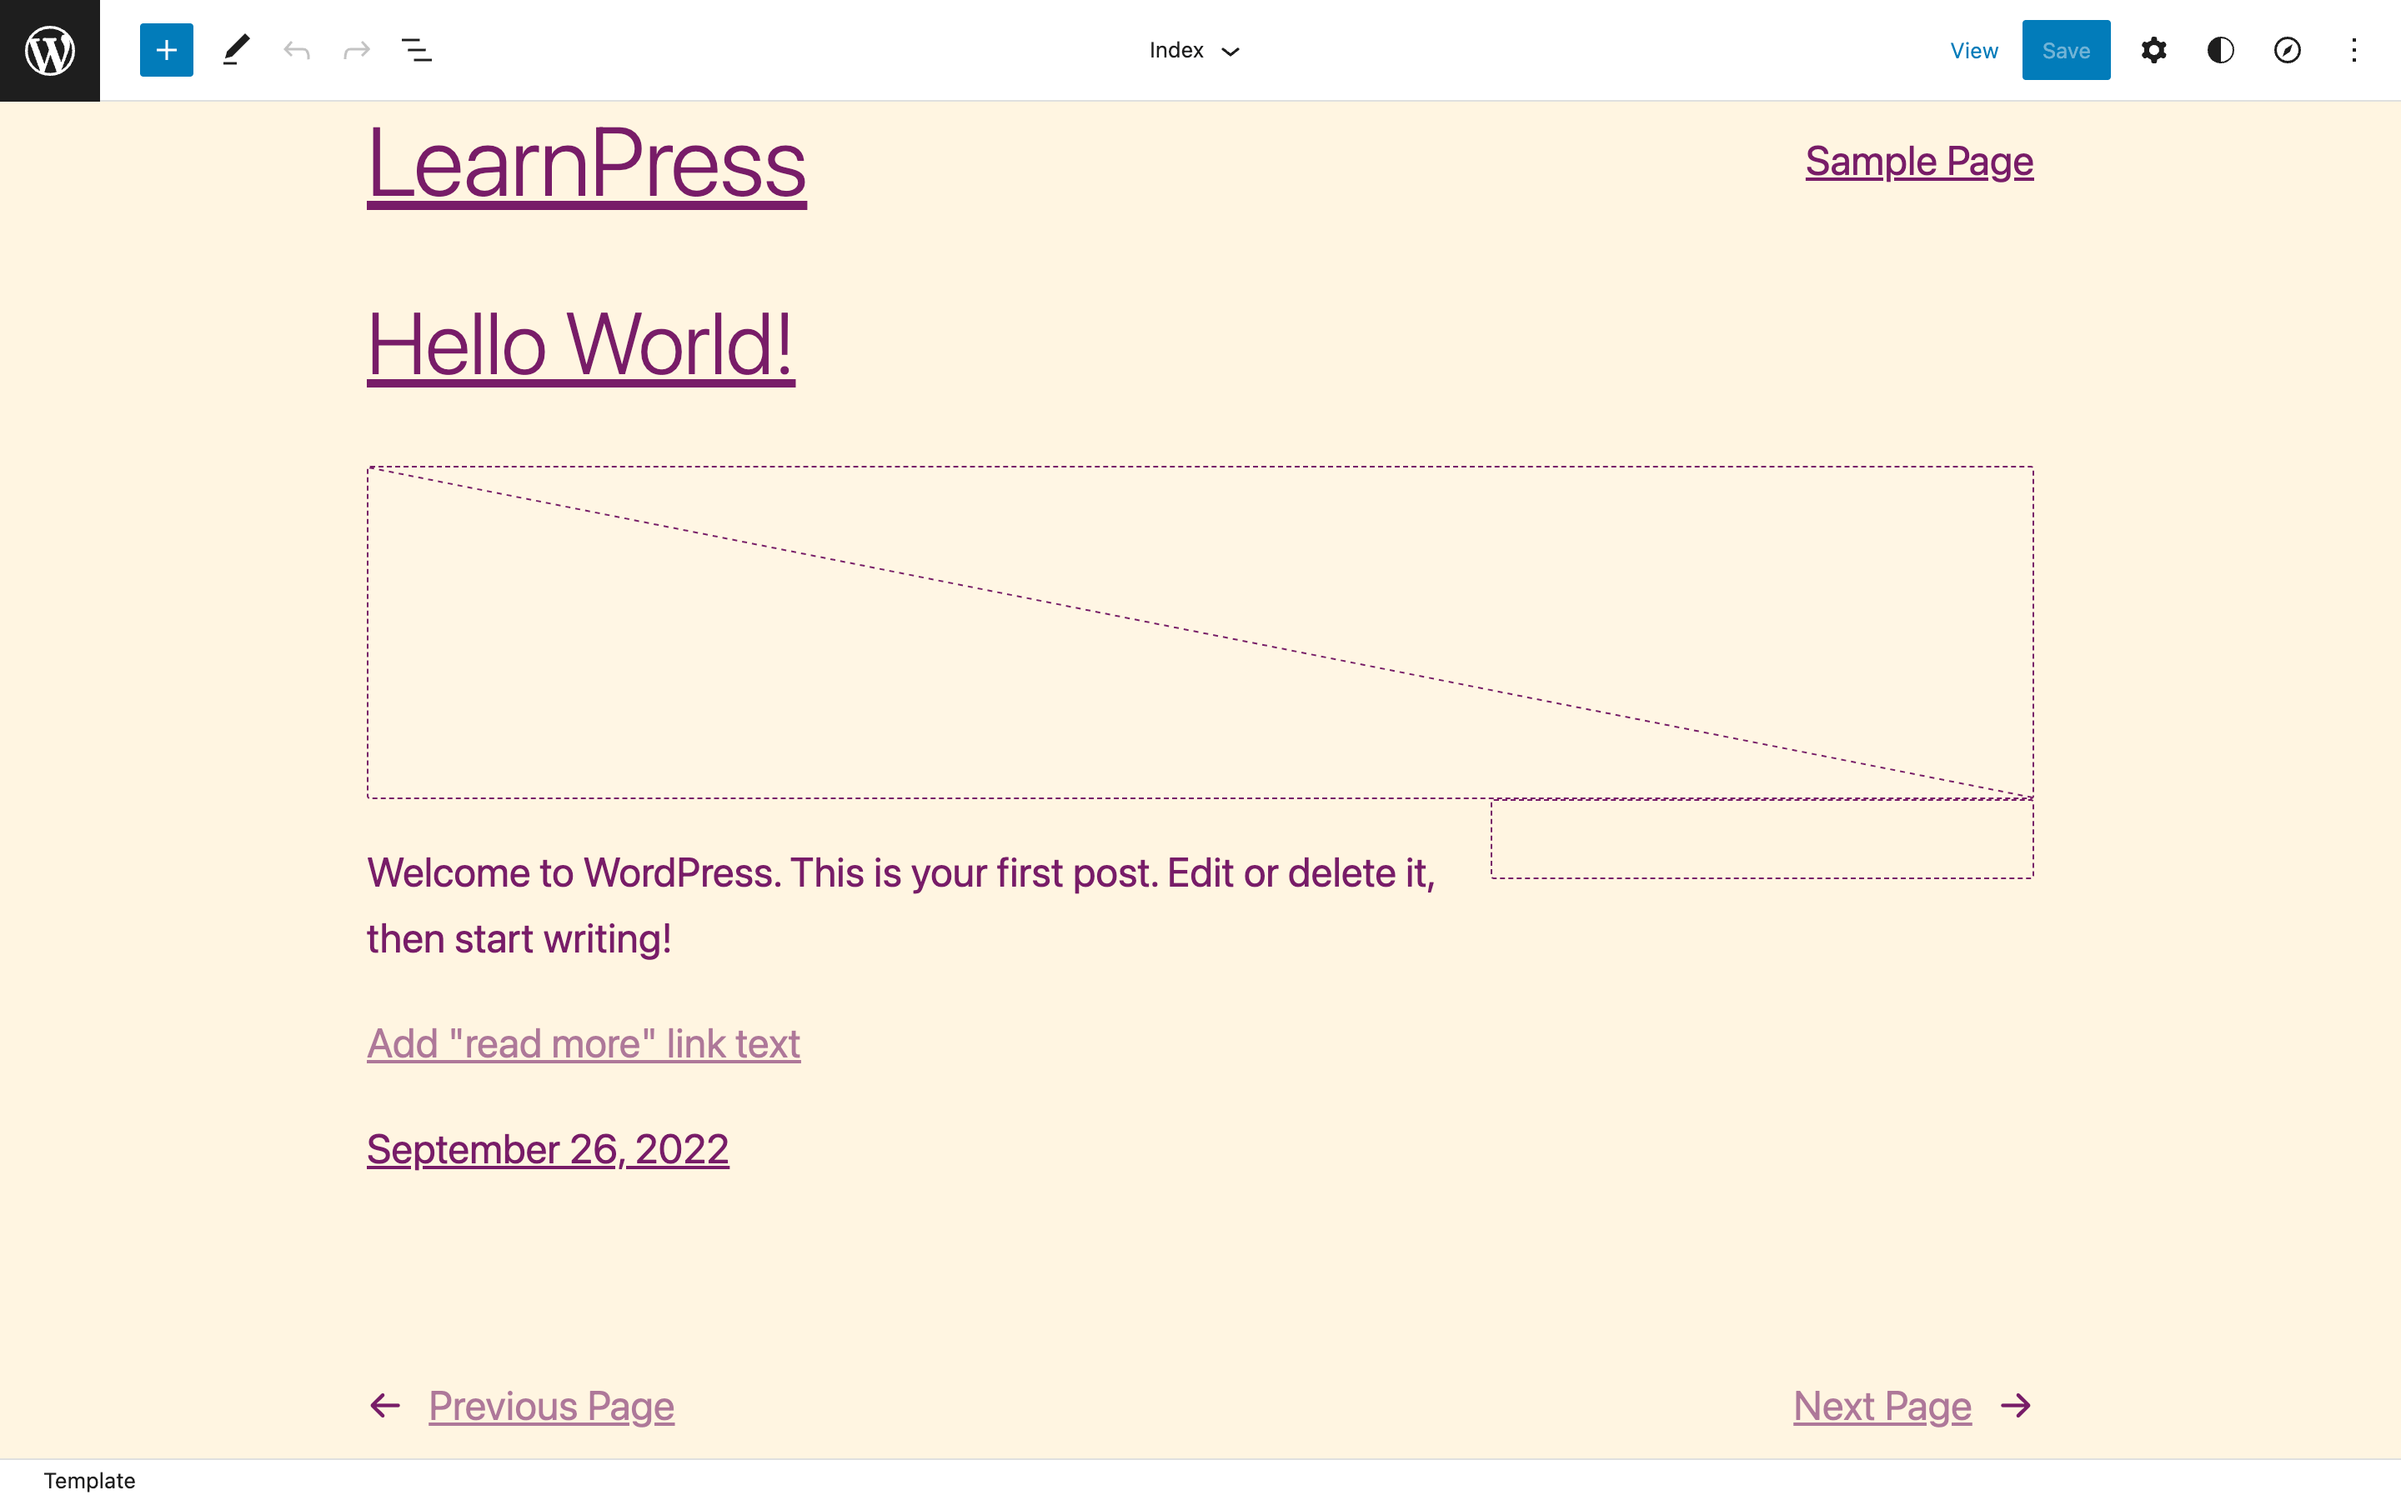
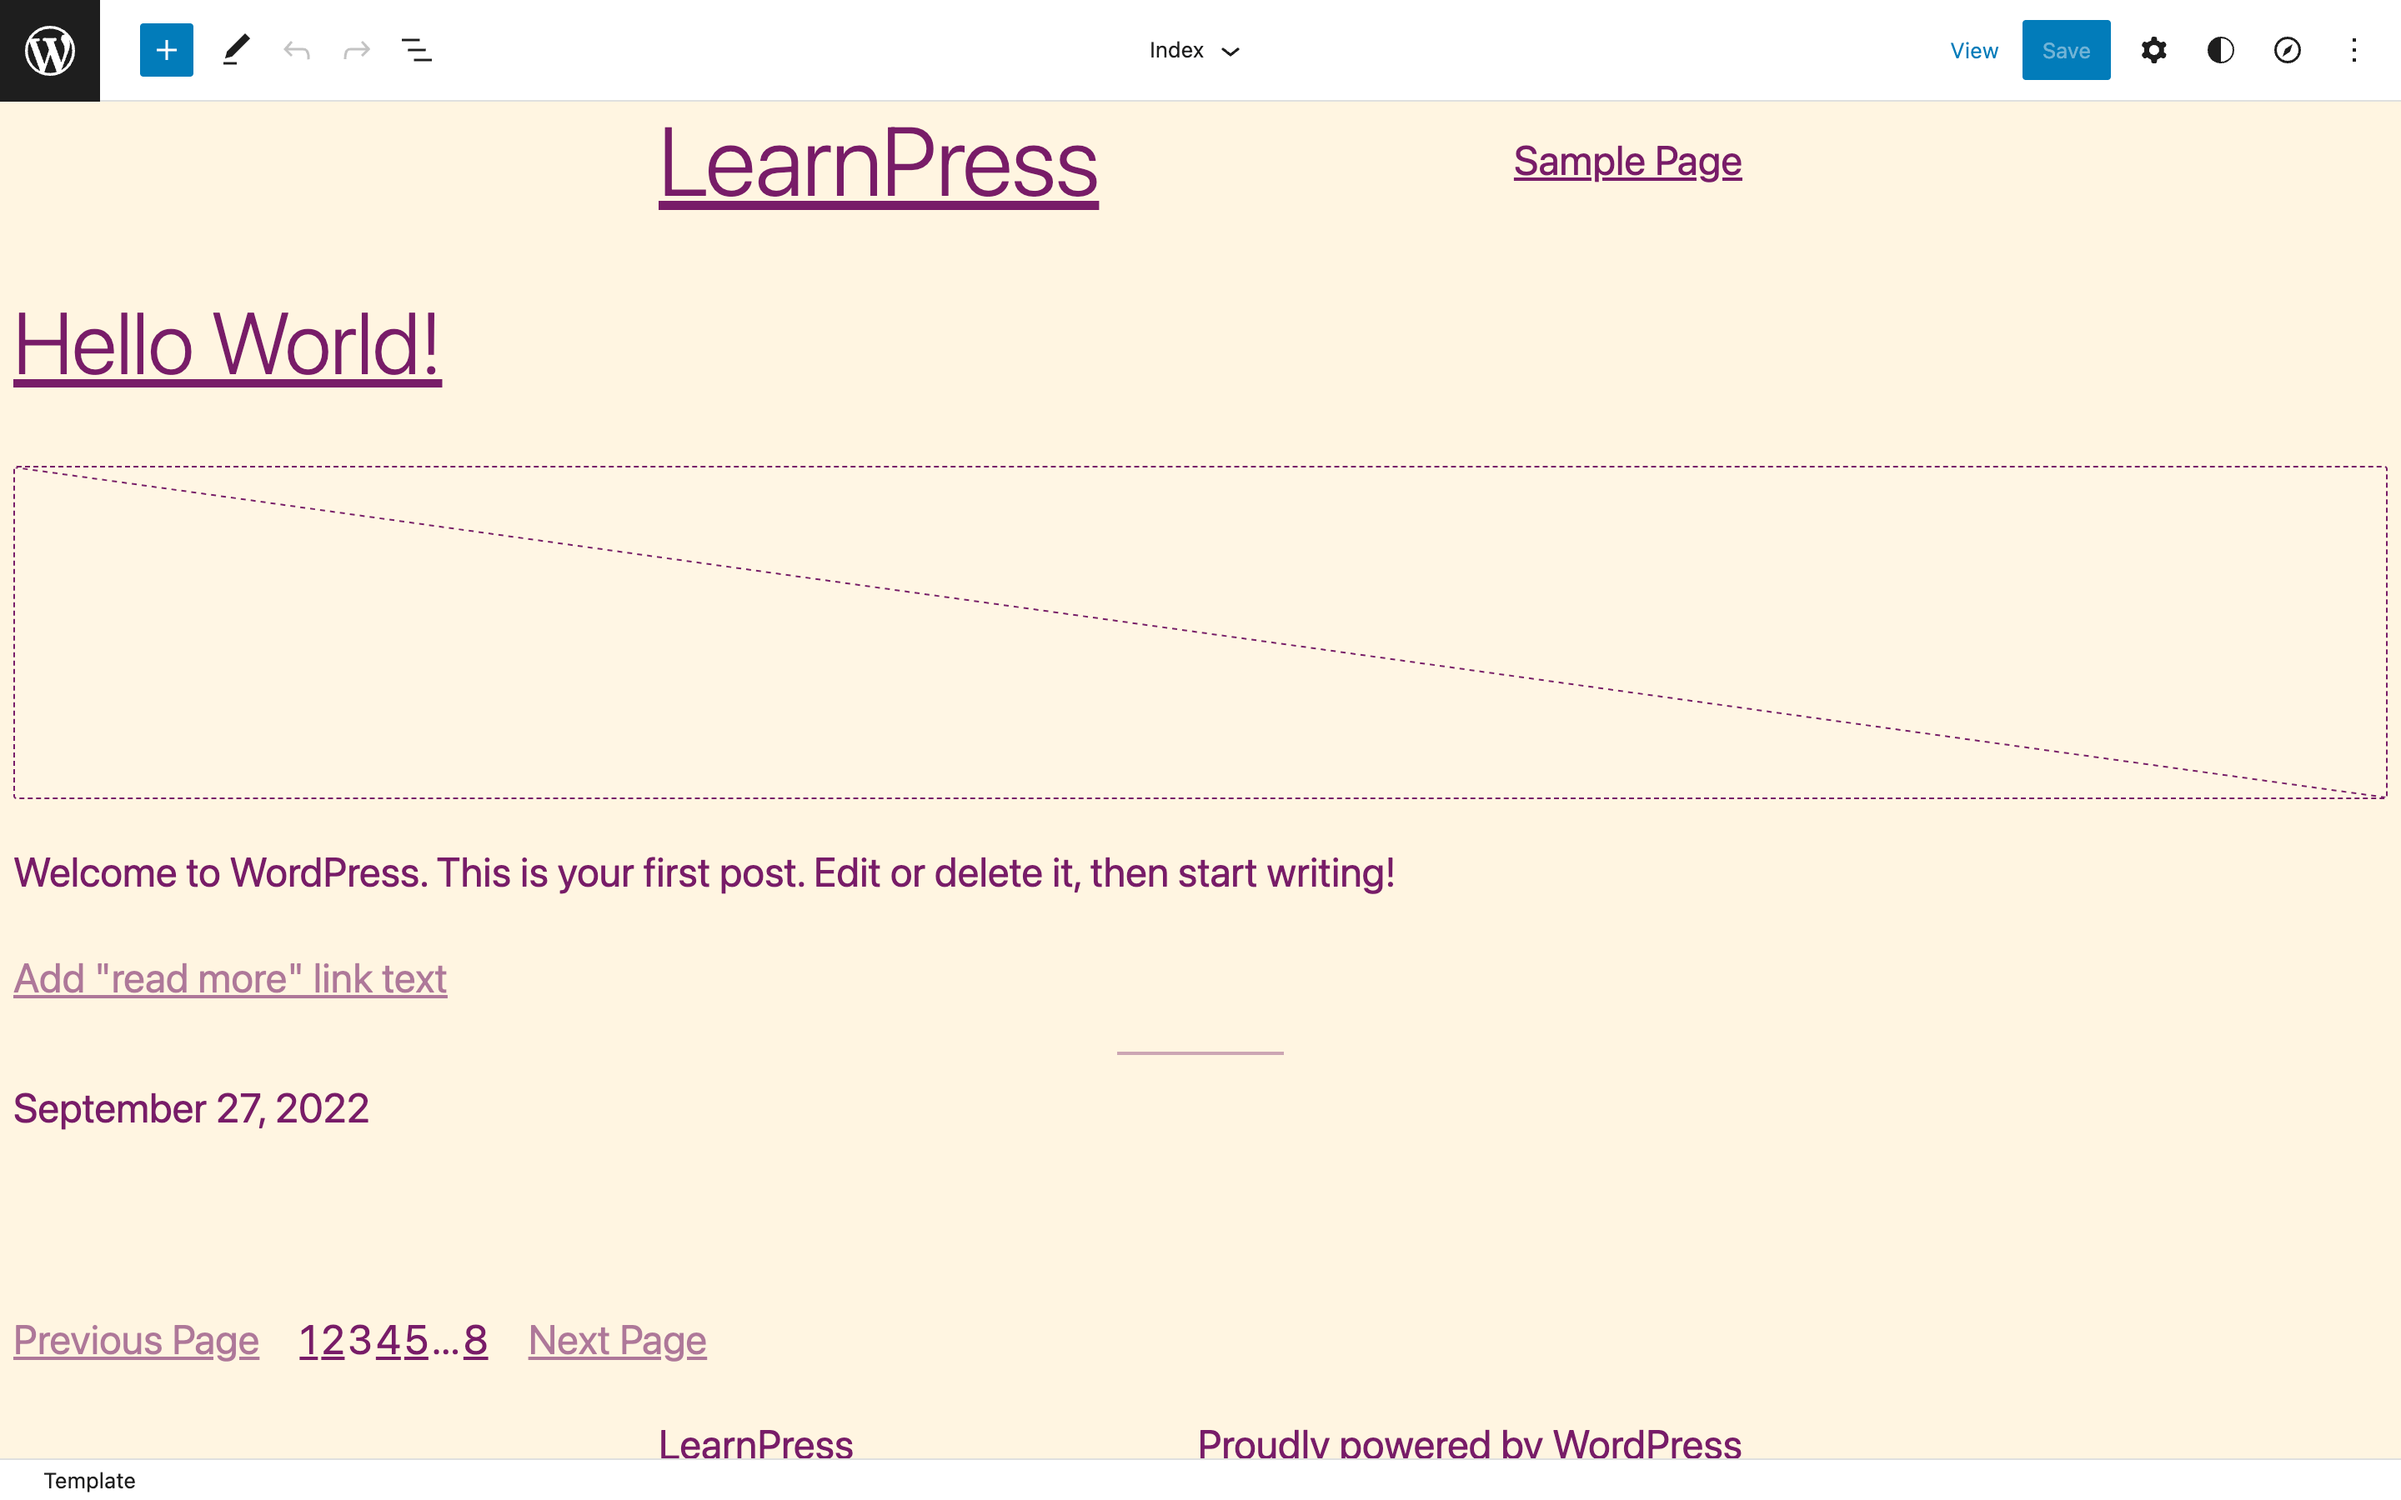
Module 2 updates

diff --git a/module-02/02-Converting-the-Style-Guide-to-theme.json.md b/module-02/02-Converting-the-Style-Guide-to-theme.json.md
@@ -103,7 +103,15 @@ Once you've made these changes, your updated theme.json file looks like this:
 
 Now switch back to your Site Editor, and take a look at any of the templates. You should see that the font has been updated to the system font.
 
-## Block Course Theme Settings and Styles
+# Exporting Styles Applied in the Global Styles Interface
+
+At this point you might be wondering if it's possible to view the code for the styles applied in the Global Styles interface, in the same way you can view the code for the templates and template parts.
+
+Due to the nature of JSON vs HTML/block code, it's not currently possible. What you can do however is use the Overwrite option of the Create Block Theme plugin, which will update your theme.json file with anny changes applied in the Global Styles interface.
+
+If you do follow this process, note that the Create Block Theme plugin will write your theme.json top level elements in alphabetical order, which may not be the order you want. This won't break the functionality of the theme, but it may be a little confusing if, for example, you're used to seeing the `schema` and `version` items at the top of the file.
+
+# Block Course Theme Settings and Styles
 
 The process outline above is the same for any setting or style you want to apply to your theme.
 
@@ -312,13 +320,15 @@ Once you've updated your theme.json file, refresh the Site editor, and you shoul
 
 Typically, when developing a theme, you would define the theme settings and styles first, based on the designs, and then start building the templates and template parts. 
 
-However, in the previous module we created the header and footer templates first, without any styles. So now might be a good time to review the header and footer template parts, and make any necessary changes based on the designs.
+However, in the previous module we created various templates and template parts first, without applying any styles. 
 
-### Layout Sizes
+So now might be a good time to review the header and footer template parts, and make any necessary changes based on the designs.
+
+## Layout Sizes
 
 If you take a look at any of the template designs, you'll notice the following commonalities:
 
-1. The largest element on any page is 1000 pixels wide (eg featured images, titles, latest posts etc)
+1. The largest element on any page is 1000 pixels wide (eg featured images, titles, latest posts etc.)
 3. Any text content is contained within a 650 pixel wide area
 
 > **Note:** The actual text content size is 655 pixels wide in the designs, but it's a good idea to stick to round numbers in web design, so we'll go with 650.
@@ -352,14 +362,19 @@ This will force the header content to always display at a width of 1000 pixels a
 
 Then take a look at the page template you created earlier, and you will see how the header and footer are now aligned to the 1000 pixel wide layout.
 
+![Updated Page Template](/images/module-02/lesson-02/updated-page-template.png)
 
+At the same time, take a look at the Figma design for the page layout. You'll notice that the Featured Image and the Post Title should also be set to 1000 pixels wide, and the text should be 650 pixels wide.
 
-```
+> **Do:**
+> 1. Navigate to the Page template
+> 2. Select the **Group** block that contains the Featured Image and Post Title, and set it's alignment to Wide width
+> 3. Select the **Featured Image** block, and set it's alignment to Wide width
+> 4. Select the **Post Title** block, and set it's alignment to Wide width
 
-## Exporting Styles Applied in the Global Styles Interface
+There is no design for the index template, mostly because this template will only be used as a fallback if the archive template is not defined. However, you can also set the Query Loop block to constrain itself to the widths specified in the theme.json, by toggling the **Inner blocks use content width** setting.
 
-At this point you might be wondering if it's possible to view the code for the styles applied in the Global Styles interface, in the same way you can view the code for the templates and template parts.
+![Updated Index Template](/images/module-02/lesson-02/updated-page-template.png)
 
-Due to the nature of JSON vs HTML/block code, it's not currently possible. What you can do however is use the Overwrite option of the Create Block Theme plugin, which will update your theme.json file with anny changes applied in the Global Styles interface.
+> **Tip:** Using Group, Row and Column blocks for defining layout is very useful, so it's a good idea to learn about all the different [core blocks](https://developer.wordpress.org/block-editor/reference-guides/core-blocks/) and what functionality they provide.
 
-If you do follow this process, note that the Create Block Theme plugin will write your theme.json top level elements in alphabetical order, which may not be the order you want. This won't break the functionality of the theme, but it may be a little confusing if, for example, you're used to seeing the `schema` and `version` items at the top of the file.
